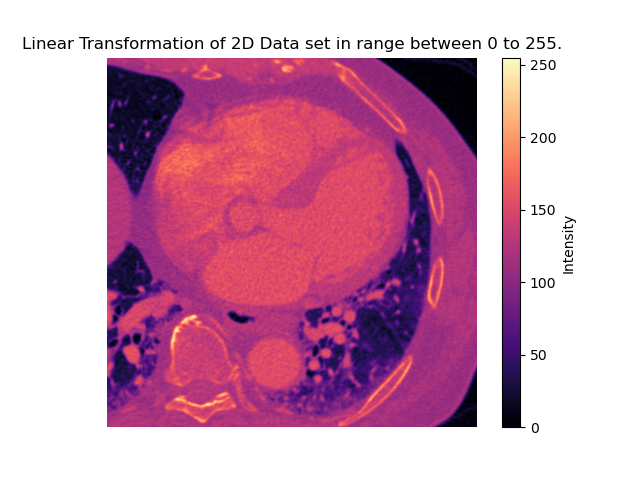
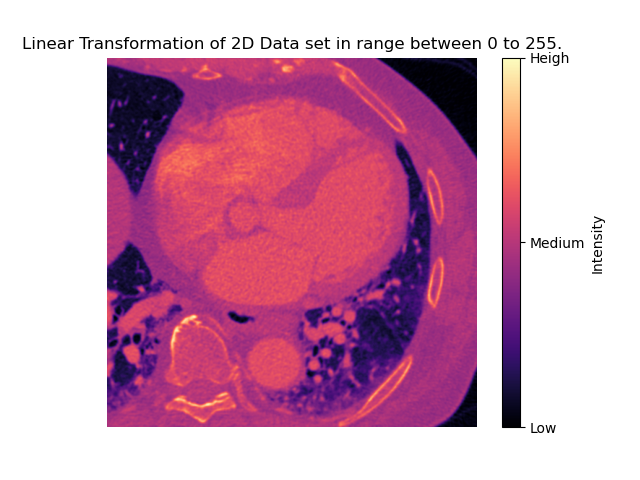
Code refactor.

diff --git a/Assignments/Assignment 2/Angiographic.py b/Assignments/Assignment 2/Angiographic.py
@@ -22,18 +22,23 @@ boxcarSum, boxcarMul  = (0.0, 0.0)
 sliceData = [] 
 sortedArray = []
 middleIndex  = 0
+intensity, low , medium, heigh = ('Intensity', 'Low', 'Medium', 'Heigh')
 
 # Read and create 2D-array from data in a binary file.
 dataSet = np.fromfile("slice150.raw", dtype=np.uint16).reshape(rows, cols)
 
 # Create 1D array for future use.
 data = dataSet.flatten()
+rmin = min(data)
+rmax = max(data)
 
 # Display raw input start.
-img1 = plt.imshow(dataSet,aspect='equal',cmap=cm.get_cmap(name='magma'))
+img1 = plt.imshow(dataSet,aspect='equal', cmap=cm.get_cmap(name='magma'), vmin= rmin, vmax= rmax)
 ax1 = plt.gca()
 cb1 = plt.colorbar(img1,orientation='vertical', ax=ax1)
-cb1.set_label('Intensity')
+cb1.set_label(intensity)
+cb1.set_ticks([rmin, (rmax / 2), rmax])
+cb1.set_ticklabels([low, medium, heigh])
 plt.title('150th slice of a CT angiographic scan data.')
 plt.axis('off')
 plt.savefig('Slice150.png')
@@ -58,8 +63,8 @@ print('Mean = ', mean)
 
 # b) Calculate Variance value start.
 for li in dataSet:
-    for item in li:
-        cal = (item - mean)
+    for it in li:
+        cal = (it - mean)
         varianceSum = varianceSum + (cal * cal)
 variance = round((varianceSum / (rows * cols)),2)
 print('Variance = ', variance)
@@ -75,16 +80,18 @@ plt.show()
 # c) Histogram end.
 
 # d) Linear transformation Start.
-rmin = min(data)
-rmax = max(data)
 for r in range(rows):
     for c in range(cols):
         sLinear[r][c] = int(round(((dataSet[r][c] - rmin) / (rmax - rmin)) * smax))
-# print(max(np.asarray(sLinear).flatten()))             
-img2 = plt.imshow(sLinear, aspect= 'equal', cmap= cm.get_cmap(name='magma'))
+linear1d = np.asarray(sLinear).flatten()        
+minLinear = min(linear1d)
+maxLinear = max(linear1d)             
+img2 = plt.imshow(sLinear, aspect= 'equal', cmap= cm.get_cmap(name='magma'), vmin= minLinear, vmax= maxLinear)
 ax2 = plt.gca()
 cb2 = plt.colorbar(img2,orientation='vertical', ax=ax2)
-cb2.set_label('Intensity')
+cb2.set_label(intensity)
+cb2.set_ticks([minLinear, (maxLinear / 2), maxLinear])
+cb2.set_ticklabels([low, medium, heigh])
 plt.title('Linear Transformation of 2D Data set in range between 0 to 255.')
 plt.axis('off')
 plt.savefig('LinearTransformation.png')
@@ -96,10 +103,15 @@ constant = smax / log(rmax + 1, 2)
 for m in range(rows):
     for n in range(cols):
         sNonLinear[m][n] = int(round(constant * (log(dataSet[m][n] + 1, 2))))
-img3 = plt.imshow(sNonLinear, aspect= 'equal', cmap= cm.get_cmap(name='magma'))
+nonLinear1d = np.asarray(sNonLinear).flatten()         
+minNonLinear = min(nonLinear1d)
+maxNonLinear = max(nonLinear1d)        
+img3 = plt.imshow(sNonLinear, aspect= 'equal', cmap= cm.get_cmap(name='magma'), vmin= minNonLinear, vmax= maxNonLinear)
 ax3 = plt.gca()
 cb3 = plt.colorbar(img3, orientation= 'vertical', ax= ax3)
-cb3.set_label('Intensity')
+cb3.set_label(intensity)
+cb3.set_ticks([minNonLinear, (maxNonLinear / 2), maxNonLinear])
+cb3.set_ticklabels([low, medium, heigh])
 plt.title('Non-Linear Transformation of 2D Data set in range between 0 to 255.')
 plt.axis('off')
 plt.savefig('Non-LinearTransformation.png')
@@ -112,16 +124,21 @@ for ro in range(filterRows):
     for co in range(filterColmns):
         rowEnd = (ro + kernelRows)
         columnEnd = (co + kernelColmns)
-        for arrayList in dataSet[ro:rowEnd, co:columnEnd]:
-            for item in arrayList:
-                boxcarMul = ((1 / (kernelRows * kernelColmns)) * item)
+        for p in dataSet[ro:rowEnd, co:columnEnd]:
+            for q in p:
+                boxcarMul = ((1 / (kernelRows * kernelColmns)) * q)
                 boxcarSum = boxcarSum + boxcarMul       
         boxcarSmoothingFilter[ro][co] = int(round(boxcarSum))
         boxcarSum, boxcarMul = (0.0, 0.0)
-img4 = plt.imshow(boxcarSmoothingFilter, aspect= 'equal', cmap= cm.get_cmap(name='magma'))
+boxcar1d = np.asarray(boxcarSmoothingFilter).flatten()         
+minBoxcar = min(boxcar1d)
+maxBoxcar = max(boxcar1d)        
+img4 = plt.imshow(boxcarSmoothingFilter, aspect= 'equal', cmap= cm.get_cmap(name='magma'), vmin= minBoxcar, vmax= maxBoxcar)
 ax4 = plt.gca()
 cb4 = plt.colorbar(img4, orientation= 'vertical', ax= ax4)
-cb4.set_label('Intensity')
+cb4.set_label(intensity)
+cb4.set_ticks([minBoxcar, (maxBoxcar / 2), maxBoxcar])
+cb4.set_ticklabels([low, medium, heigh])
 plt.title('An 11x11 boxcar smoothing filter on the 2D data set.')
 plt.axis('off')
 plt.savefig('BoxcarSmoothingFilter.png')
@@ -137,23 +154,28 @@ def BubbleSort(li):
                 li[j], li[j+1] = li[j+1], li[j]
     return li
 
-for r in range(filterRows):
-    for c in range(filterColmns):
-        rEnd = (r + kernelRows)
-        cEnd = (c + kernelColmns)
-        for arrayList in dataSet[r:rEnd, c:cEnd]:
+for x in range(filterRows):
+    for y in range(filterColmns):
+        rEnd = (x + kernelRows)
+        cEnd = (y + kernelColmns)
+        for arrayList in dataSet[x:rEnd, y:cEnd]:
             for item in arrayList:
                 sliceData.append(item)
         sortedArray = BubbleSort(sliceData)        
         middleIndex = len(sortedArray) // 2                
-        medianFilter[r][c] = int(round(sortedArray[middleIndex]))
+        medianFilter[x][y] = int(round(sortedArray[middleIndex]))
         sliceData = []
         sortedArray = []
         middleIndex = 0
-img5 = plt.imshow(medianFilter, aspect= 'equal', cmap= cm.get_cmap(name='magma'))
+Median1d = np.asarray(medianFilter).flatten()
+minMedian = min(Median1d)
+maxMedian = max(Median1d)
+img5 = plt.imshow(medianFilter, aspect= 'equal', cmap= cm.get_cmap(name='magma'), vmin= minMedian, vmax= maxMedian)
 ax5 = plt.gca()
 cb5 = plt.colorbar(img5, orientation= 'vertical', ax= ax5)
-cb5.set_label('Intensity')
+cb5.set_label(intensity)
+cb5.set_ticks([minMedian, (maxMedian / 2), maxMedian])
+cb5.set_ticklabels([low, medium, heigh])
 plt.title('An 11x11 Median filter on the 2D data set.')
 plt.axis('off')
 plt.savefig('MedianFilter.png')
